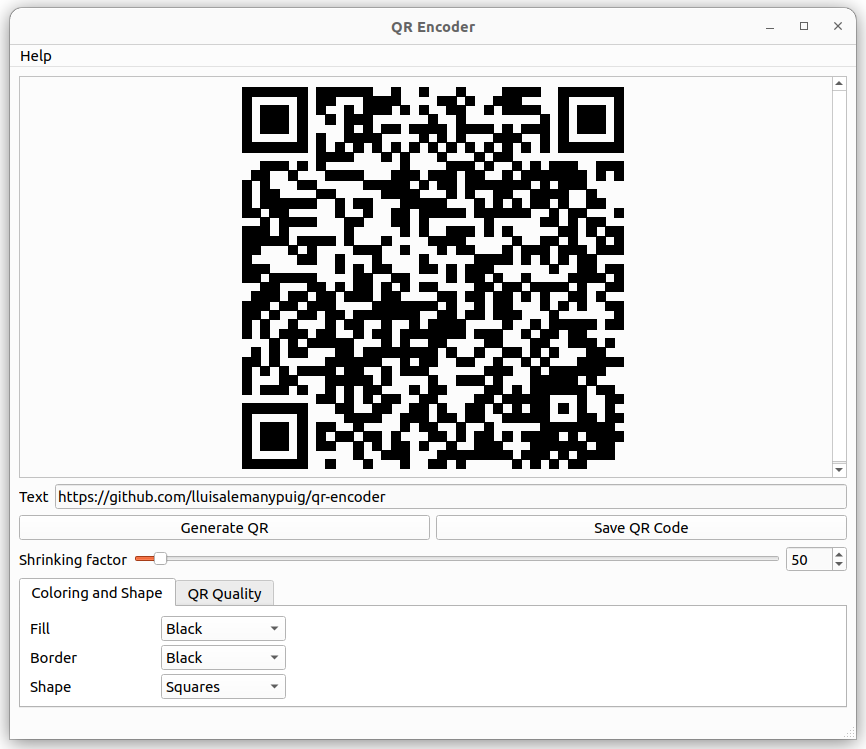
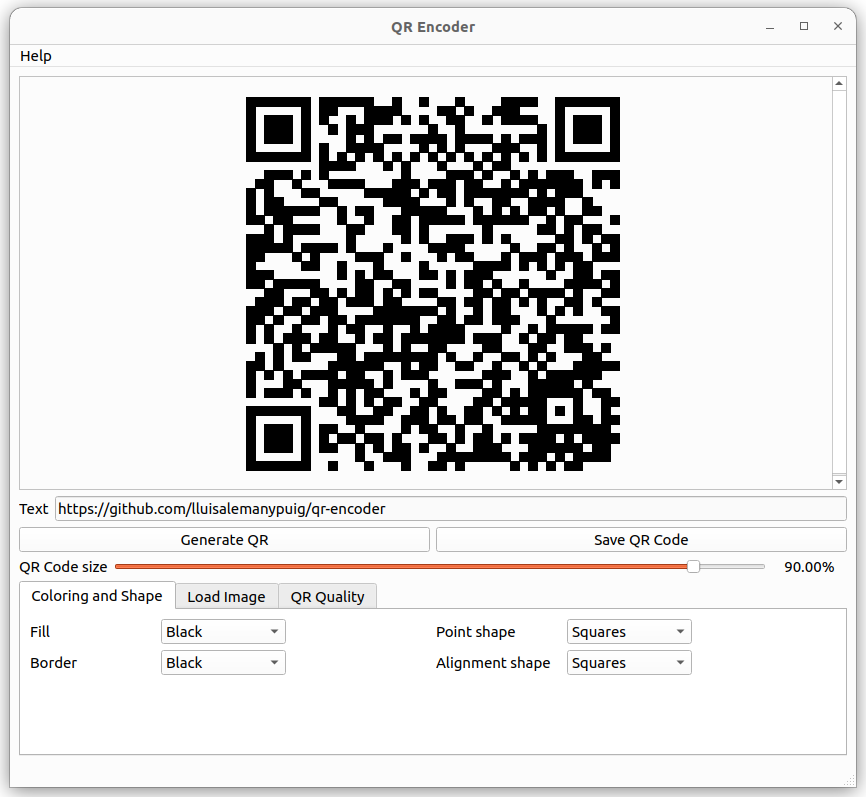
Updated README

diff --git a/README.md b/README.md
@@ -8,10 +8,15 @@ Launch the application and enter the text in the textbox right next to "Text". T
 
 ![ ](figures/GUI_1.png)
 ![ ](figures/GUI_2.png)
+![ ](figures/GUI_3.png)
 
 ### Coloring and Shape
 
 The color and shape of the 'units' of the QR code can be changed. Users can choose the fill color, the border color, and the shape of the units (either squares or circles).
+
+### Add an image to your QR
+
+An image can be added to the QR code. This app places the image at the center of the QR. This image can be resized using a slider. To enhance visibility of the image, a background can be added; its size, color and shape can also be modified.
 
 ### Advanced options
 
@@ -35,36 +40,36 @@ This project accepts ideas to enhance the performance of this software and/or ad
 
 It is important to add the appropriate translations of the messages in the GUI or in pop up messages. To add the translations, use the script `update_translations.sh`; it will help you update the translations for the current existing languages.
 
-1. Choose the language you want to translate to. The target languages currently supported by the script are
+First, configure your working environment.  Add to your `PATH` environment variable the path to the executable files:
+
+- `lupdate`: generates the xml files containing the translated texts.
+- `linguist`: a GUI to aid in the translation process.
+- `lrelease`: compiles the xml files so that the executable files can use the translations.
+
+All of these files can be installed using the `Qt Maintenance Tool` which should already be installed in your system. When installed, they can be found in:
+
+	~/Qt/$v/gcc_64/bin/
+	
+where `v` is the Qt version installed, e.g., `v=6.6.0`.
+
+Now, you are ready to update the translations.
+
+1. Choose the language `L` you want to translate to. The target languages currently supported by the script are
 
 	- English: `english`
 	- Catalan: `catalan`
 	- Spanish: `spanish`
 
-	Consider `L` to be the language of choice.
-
-2. Add to your `PATH` environment variable the path to the executable files:
-
-	- `lupdate`: generates the xml files containing the translated texts.
-	- `linguist`: a GUI to aid in the translation process.
-	- `lrelease`: compiles the xml files so that the executable files can use the translations.
-
-	All of these files can be installed using the `Qt Maintenance Tool` which should already be installed in your system. When installed, they can be found in:
-
-		~/Qt/$v/gcc_64/bin/
-	
-	where `v` is the Qt version installed, e.g., `v=6.6.0`.
-
-3. First run the script with parameters
+2. First run the script with parameters:
 	
 		$ ./update_translations.sh update $L
 
 	This will update the xml files for the actual translation step.
 
-4. Actually translate the texts:
+3. Actually translate the texts:
 
 		$ ./update_translations.sh translate $L
 	
-5. Compile the translation files necessary for distribution
+4. In order to test your translations, compile the translation files:
 
 		$ ./update_translations.sh compile $L
